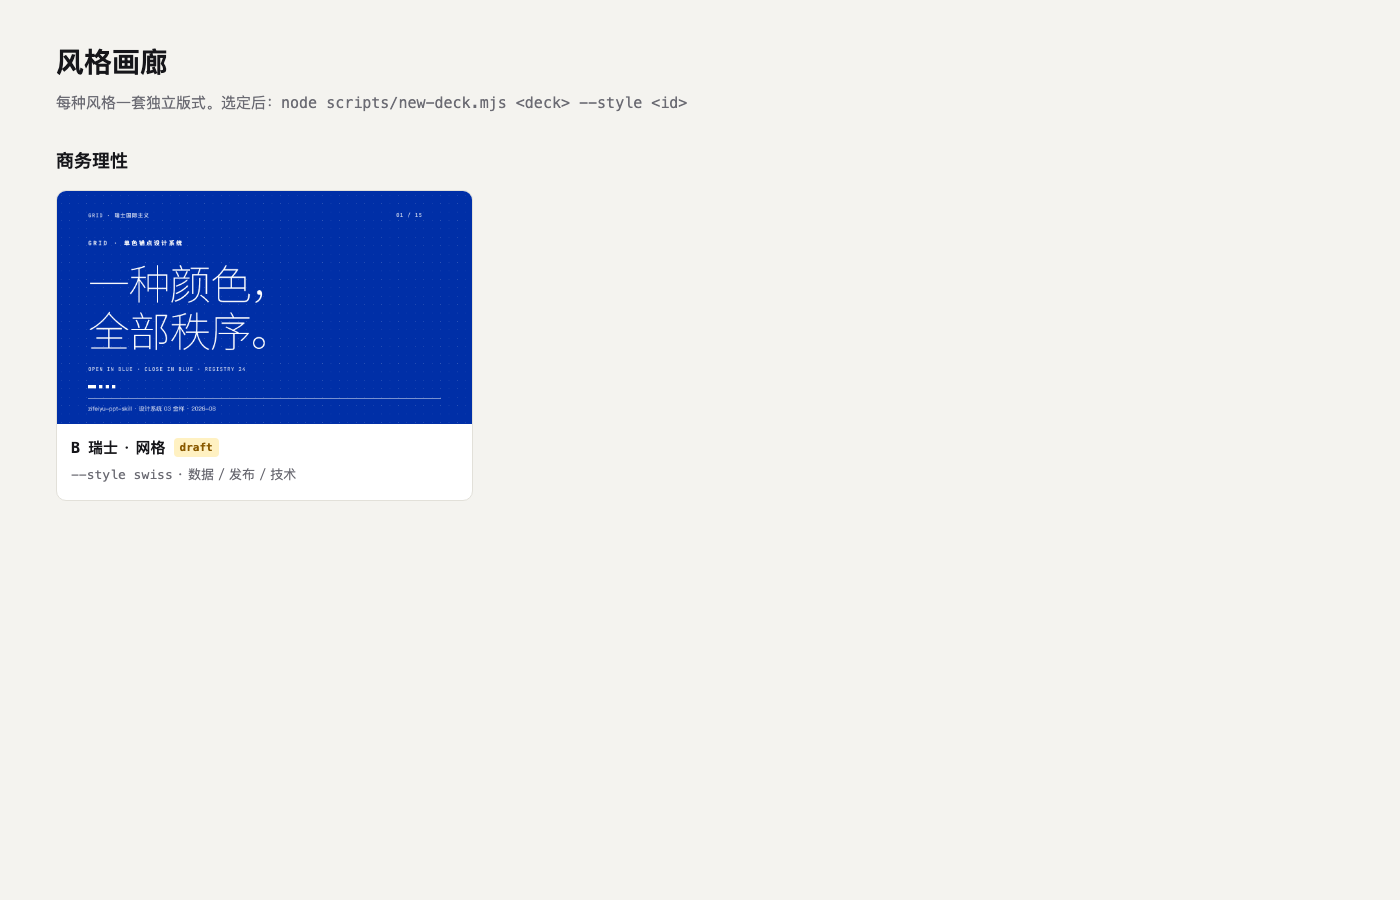
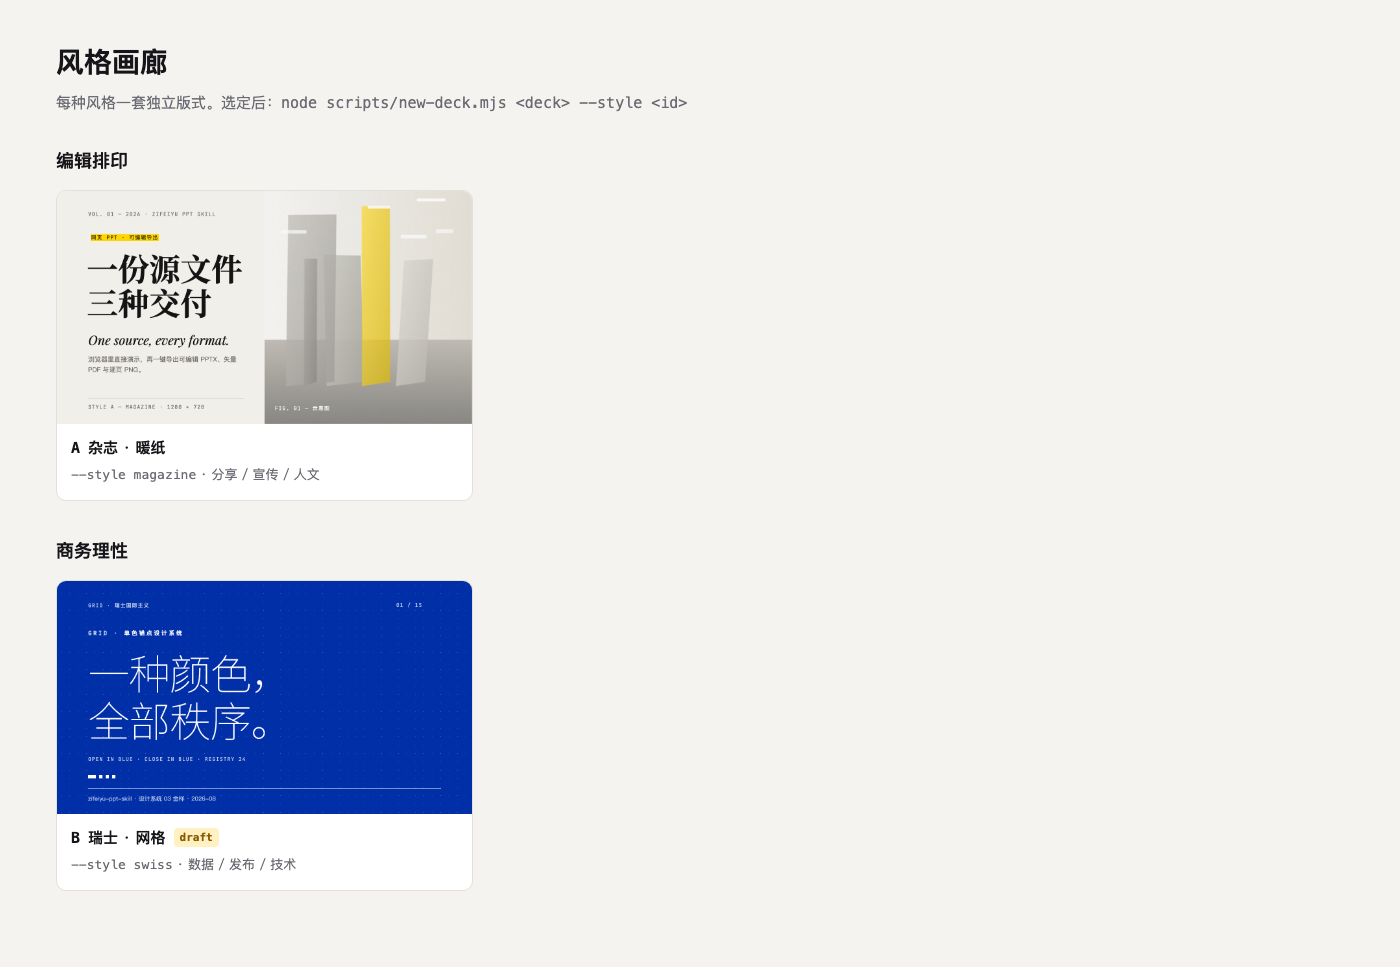
Ship style A magazine: ready, baseline, gallery, CI, docs
check-style 0/0, validate 0/0 over 18 pages, LibreOffice geometry
matches the HTML on every page. CI validates every styles/*/golden and
smoke-exports the magazine deck (18 slides, embedded mp4).

Changed region(s): [[0.0307, 0.1556, 0.3379, 0.5289], [0.0307, 0.56, 0.3379, 0.9022], [0.0307, 0.0311, 0.4914, 0.1244]]

diff --git a/styles/magazine/golden/index.html b/styles/magazine/golden/index.html
@@ -273,7 +273,7 @@
 </section>
 
 <section class="slide" data-layout="magazine/process" data-role="process">
-  <p class="mg-mono mg-folio">CHAPTER 02 — WORKFLOW</p>
+  <p class="mg-mono mg-folio">04 — WORKFLOW</p>
   <h2 class="mg-serif mgp-title" data-anim="rise">从大纲到成稿，四步</h2>
   <p class="mg-it mgp-it" data-anim="rise">from outline to deck.</p>
   <img class="mg-photo mgp-img" src="assets/img/14-process.jpg" alt="示意图：暖灰立板构成的空间">
@@ -292,7 +292,7 @@
   <h3 class="mg-serif mgp-h mgp-c4" data-merge="s4" data-anim="rise"><span class="is-mark">导出</span></h3>
   <p class="mg-body mgp-p mgp-c4" data-merge="s4" data-anim="rise">一键得到可编辑 PPTX、矢量 PDF 与逐页 PNG。</p>
   <div class="mg-hair mg-rule" data-shape="rect"></div>
-  <p class="mg-mono mg-foot">ZIFEIYU PPT SKILL · WORKFLOW</p>
+  <p class="mg-mono mg-foot">ZIFEIYU PPT SKILL · VOL. 01</p>
   <p class="mg-mono mg-pageno">14 / 18</p>
 </section>
 

diff --git a/docs/styles/index.html b/docs/styles/index.html
@@ -31,6 +31,18 @@
   <h1>风格画廊</h1>
   <p class="lead">每种风格一套独立版式。选定后：<code>node scripts/new-deck.mjs &lt;deck&gt; --style &lt;id&gt;</code></p>
     <section>
+      <h2>编辑排印</h2>
+      <div class="grid">
+      <figure class="card">
+        <img src="magazine.png" alt="杂志 · 暖纸 封面">
+        <figcaption>
+          <p class="name"><b>A</b>杂志 · 暖纸</p>
+          <p class="meta"><code>--style magazine</code> · 分享 / 宣传 / 人文</p>
+        </figcaption>
+      </figure>
+      </div>
+    </section>
+    <section>
       <h2>商务理性</h2>
       <div class="grid">
       <figure class="card">

diff --git a/ARCHITECTURE.md b/ARCHITECTURE.md
@@ -216,6 +216,7 @@ PPTX 导出后重新截图与 HTML 逐页比对，字体回退导致的溢出逐
 - **M9 · 数据叙事与纪律机器化**：版式扩容到 24（L20 环形闭环、L21 矩阵盘点、L22 规格表、L23 纵向时间线、L24 同心圆系统）并配「内容形状 → 版式」决策表，让选版式从审美判断变成形状匹配；节奏纪律机器化为 R15（相邻同版式 + 连续同明暗段）；新增实战回流库 `references/failures.md`（现象→根因→修法→已固化到，交付后强制回填）；enhance.js 补齐新版式的语义动效配方（条形生长、环形顺时针点亮、矩阵逐格、纵轴自顶拉出、同心圆由外向内）。
 
 - **M10 · 风格库平台（P0）**：风格包结构（style.css / layouts.md / manifest.json / golden）与 20 角色层；base.css 瘦身为共用底座，旧设计层迁入 `assets/legacy/`；测量与导出新增圆角、描边、燕尾箭头、旋转、阴影、竖排、单元素隔离截图（顺带修掉 cover 图截图把遮罩文字烤进图片的旧问题）；文本框合并与动画改为骨架声明（`data-merge` / `data-anim`）；校验器 style 模式 + R16 导出一致性；`check-style` / `gen-art` / `style-gallery` / `regress.mjs`；swiss 原样迁成第一个风格包，像素回归 15/15 页 0.00%，PPTX 文本框结构逐页一致；`node --test` 单测进 CI。P1–P3 按 spec 交付其余 11 种风格。
+- **M11 · 风格 A 杂志（P1）**：第一个 ready 风格，18 个版式覆盖 12 个核心角色 + matrix / bars / table / gallery / video / audio；12 种风格共用的金样文字 `docs/golden-content.md`；数字改用 Playfair 等高数字（Office 映射 Times New Roman）；导出器补上整段斜体；gen-art 支持 JPEG 输出（金样配图从 MB 级降到几十 KB）。
 
 ## 9. 风险与对策
 

diff --git a/styles/magazine/layouts.md b/styles/magazine/layouts.md
@@ -1,6 +1,6 @@
 # 杂志 · 暖纸（magazine）版式注册表
 
-> 状态：draft（P1 执行中）。
+> 状态：ready · 18 个版式，覆盖全部 12 个核心角色 + matrix / bars / table / gallery / video / audio。
 
 规则：整块复制骨架，只替换文字与图片路径；不得增删结构、不得改类名。骨架上的 `data-layout / data-role / data-merge / data-anim / data-source / data-value / data-label / data-chart / data-media` 是导出与动画的声明，原样保留（说明见 `references/roles.md`）。金样：`styles/magazine/golden/`；金样文字来自 `docs/golden-content.md`。
 
@@ -362,7 +362,7 @@
 
 ```html
 <section class="slide" data-layout="magazine/process" data-role="process">
-  <p class="mg-mono mg-folio">CHAPTER 02 — WORKFLOW</p>
+  <p class="mg-mono mg-folio">04 — WORKFLOW</p>
   <h2 class="mg-serif mgp-title" data-anim="rise">从大纲到成稿，四步</h2>
   <p class="mg-it mgp-it" data-anim="rise">from outline to deck.</p>
   <img class="mg-photo mgp-img" src="assets/img/14-process.jpg" alt="示意图：暖灰立板构成的空间">
@@ -381,7 +381,7 @@
   <h3 class="mg-serif mgp-h mgp-c4" data-merge="s4" data-anim="rise"><span class="is-mark">导出</span></h3>
   <p class="mg-body mgp-p mgp-c4" data-merge="s4" data-anim="rise">一键得到可编辑 PPTX、矢量 PDF 与逐页 PNG。</p>
   <div class="mg-hair mg-rule" data-shape="rect"></div>
-  <p class="mg-mono mg-foot">ZIFEIYU PPT SKILL · WORKFLOW</p>
+  <p class="mg-mono mg-foot">ZIFEIYU PPT SKILL · VOL. 01</p>
   <p class="mg-mono mg-pageno">14 / 18</p>
 </section>
 ```

diff --git a/README.en.md b/README.en.md
@@ -6,6 +6,12 @@
 
 The one-line difference from similar projects: beautiful HTML decks usually can't become .pptx files, and generic HTML→PPTX translators are too fragile. This skill gets both through **registered layouts + deterministic mapping**: every slide must declare a layout ID from a closed set, so the exporter only ever faces known structures — coordinates convert at a fixed ratio, results are predictable and regression-testable.
 
+## Style library
+
+12 styles, each with its own layout set — pick one at intake. Shipped: A Magazine; the rest follow the phased spec (`docs/superpowers/specs/2026-10-08-style-library-design.md`).
+
+![style library](docs/styles/gallery.png)
+
 ![cover](docs/preview/cover.png)
 
 ## Features
@@ -42,7 +48,7 @@ Requires Node.js ≥ 18 and `npx playwright install chromium-headless-shell`. Fe
 Ask Claude Code to "make a deck about X" — the skill drives an 8-step workflow: clarify & pick tier → verify facts → scaffold → 2-slide sample gate → batch production → machine validation → visual check → export.
 
 ```bash
-node scripts/new-deck.mjs <deck-dir> --theme paper   # scaffold a self-contained deck
+node scripts/new-deck.mjs <deck-dir> --style magazine   # scaffold a self-contained deck
 node scripts/subset-fonts.mjs <deck-dir>             # deck-local webfont subsets (re-run after text edits)
 node scripts/validate.mjs <deck-dir> [--office]      # machine gate R1–R15
 node scripts/render-png.mjs <deck-dir>

diff --git a/README.md b/README.md
@@ -8,6 +8,12 @@
 
 一句话说清楚它和同类项目的区别：**别人的网页 PPT 很美但导不出 .pptx，通用 HTML→PPTX 翻译又太脆——这里用"注册制版式 + 确定性映射"同时拿到两者**：每页必须声明封闭集合内的版式编号，导出器只面对已知结构，坐标按固定比例换算，结果可预期、可回归测试。
 
+## 风格库
+
+12 种风格、每种独立版式集，开场先挑风格；已交付：A 杂志 · 暖纸，其余按 `docs/superpowers/specs/2026-10-08-style-library-design.md` 分期交付。
+
+![风格库](docs/styles/gallery.png)
+
 ![封面版式](docs/preview/cover.png)
 
 ## 特性
@@ -60,7 +66,7 @@ cd ~/.claude/skills/zifeiyu-ppt-skill && npm install
 手动命令：
 
 ```bash
-node scripts/new-deck.mjs <deck-dir> --theme paper           # 建 deck 脚手架
+node scripts/new-deck.mjs <deck-dir> --style magazine        # 建 deck 脚手架
 node scripts/subset-fonts.mjs <deck-dir>                     # 生成 deck 内字体子集（改文字后重跑）
 node scripts/validate.mjs <deck-dir> [--office]              # 机器校验 R1–R15
 node scripts/render-png.mjs <deck-dir>                       # 逐页截图
